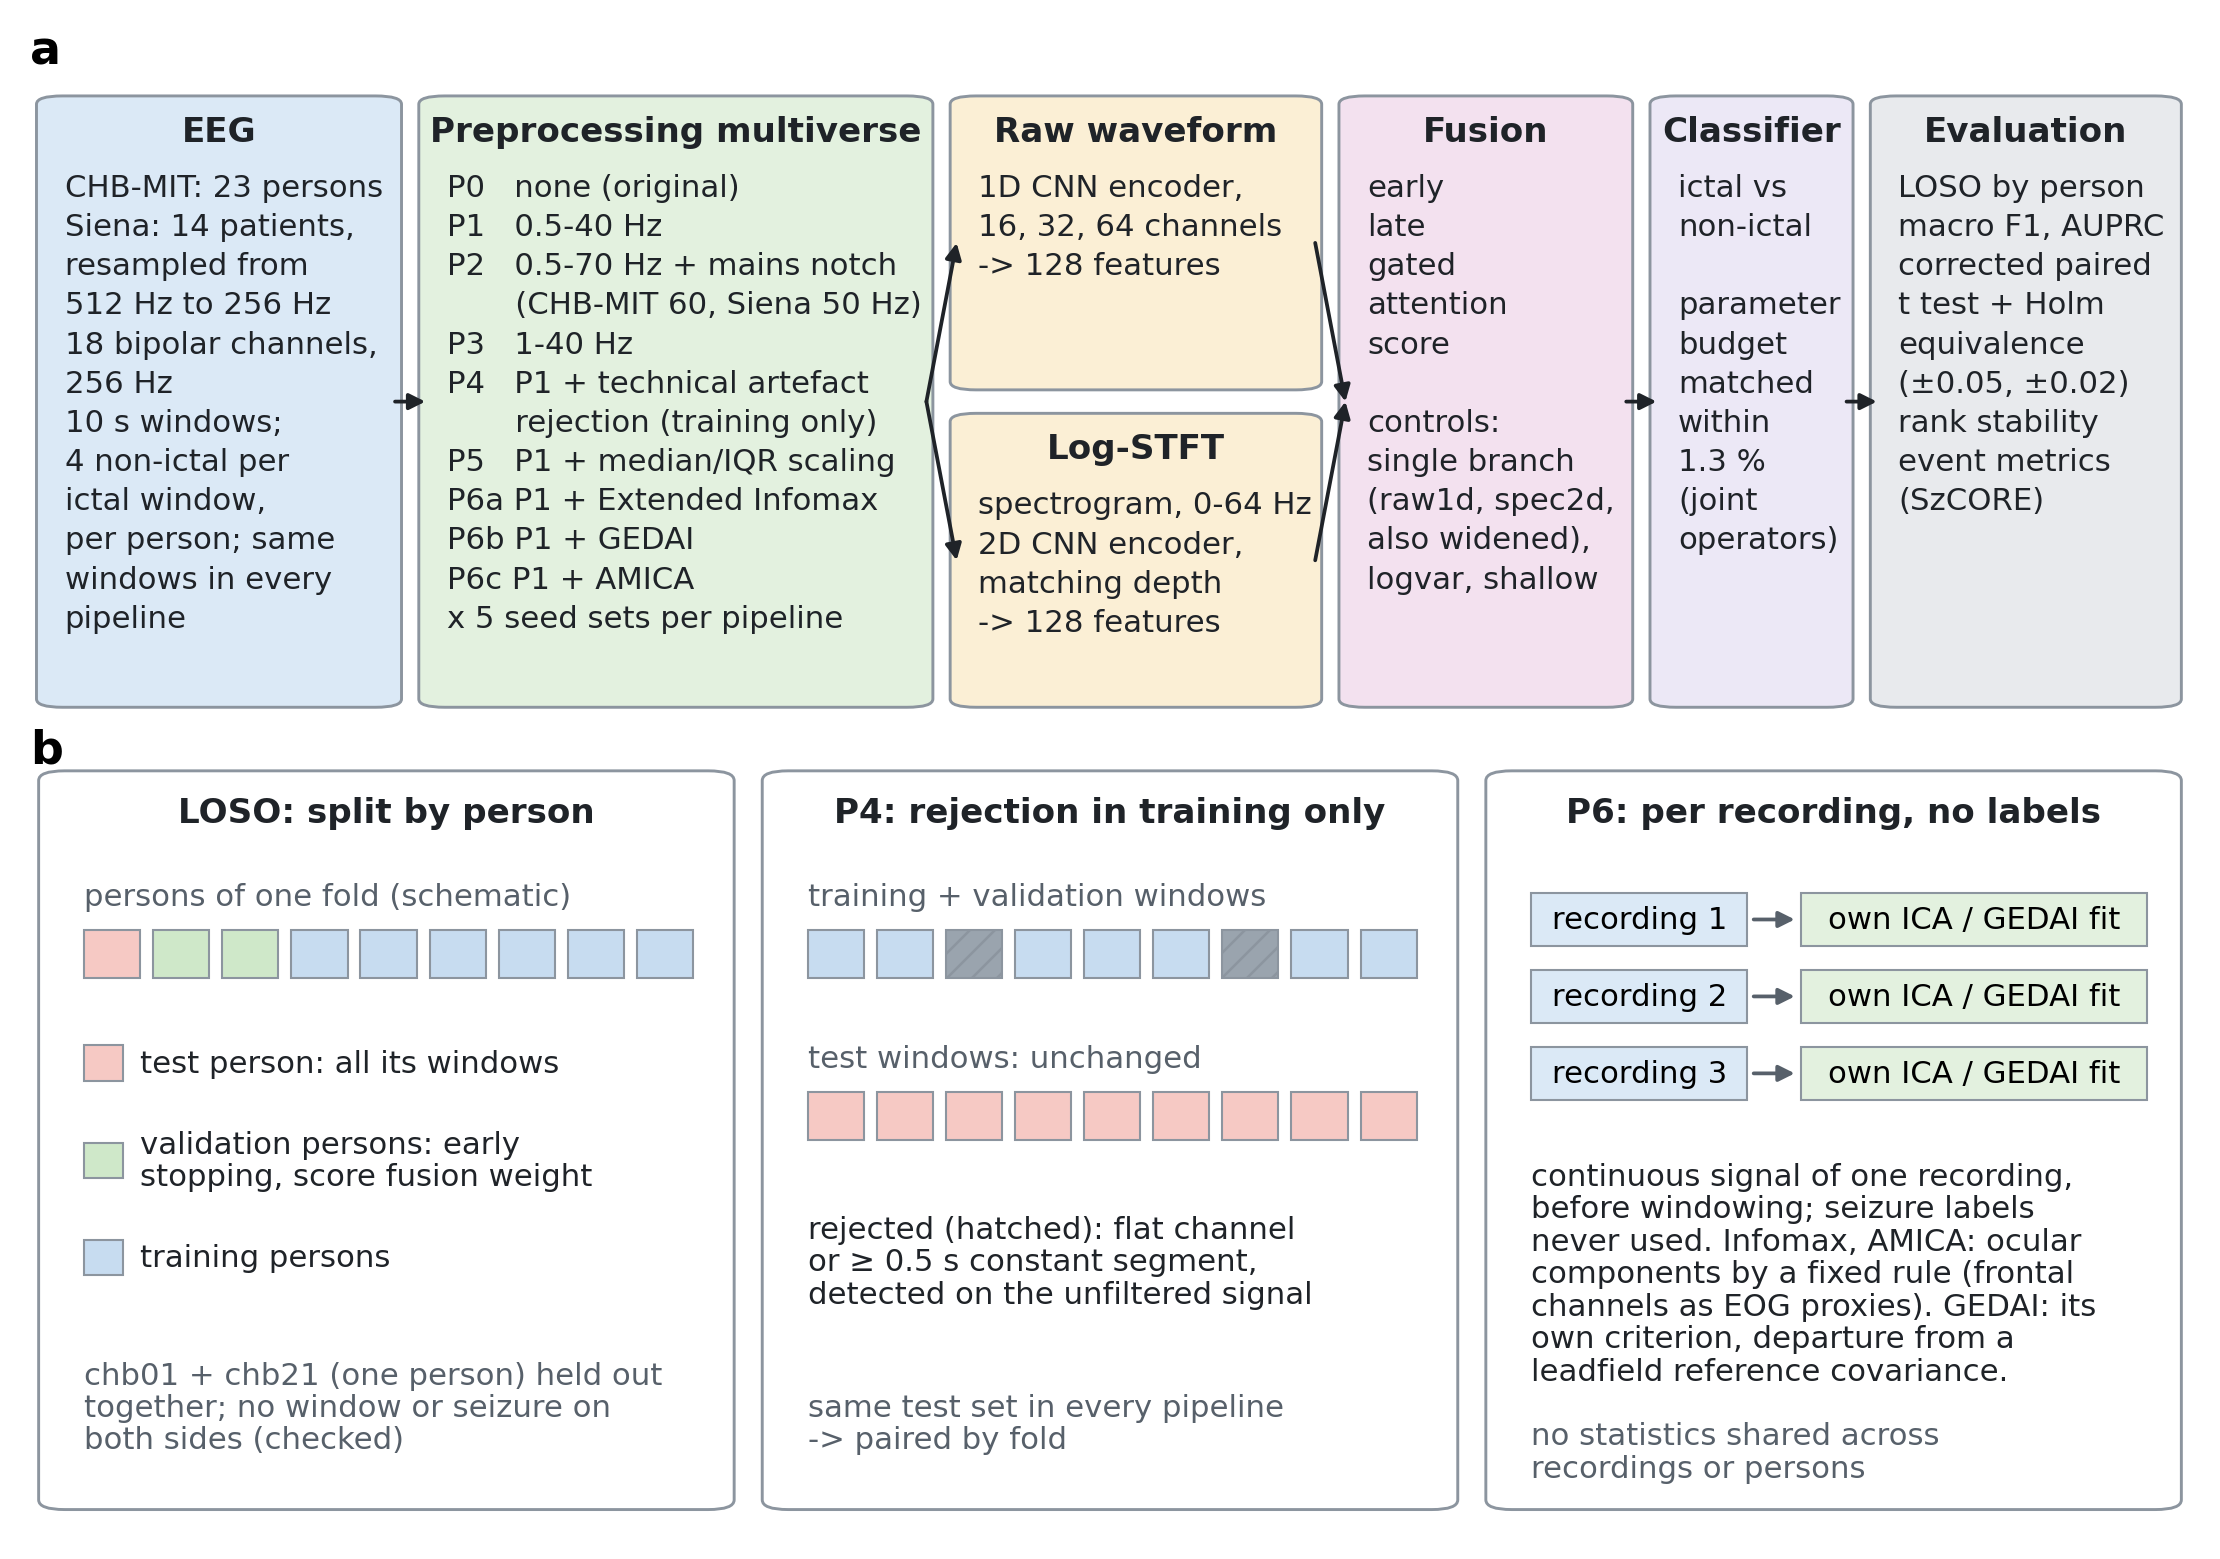
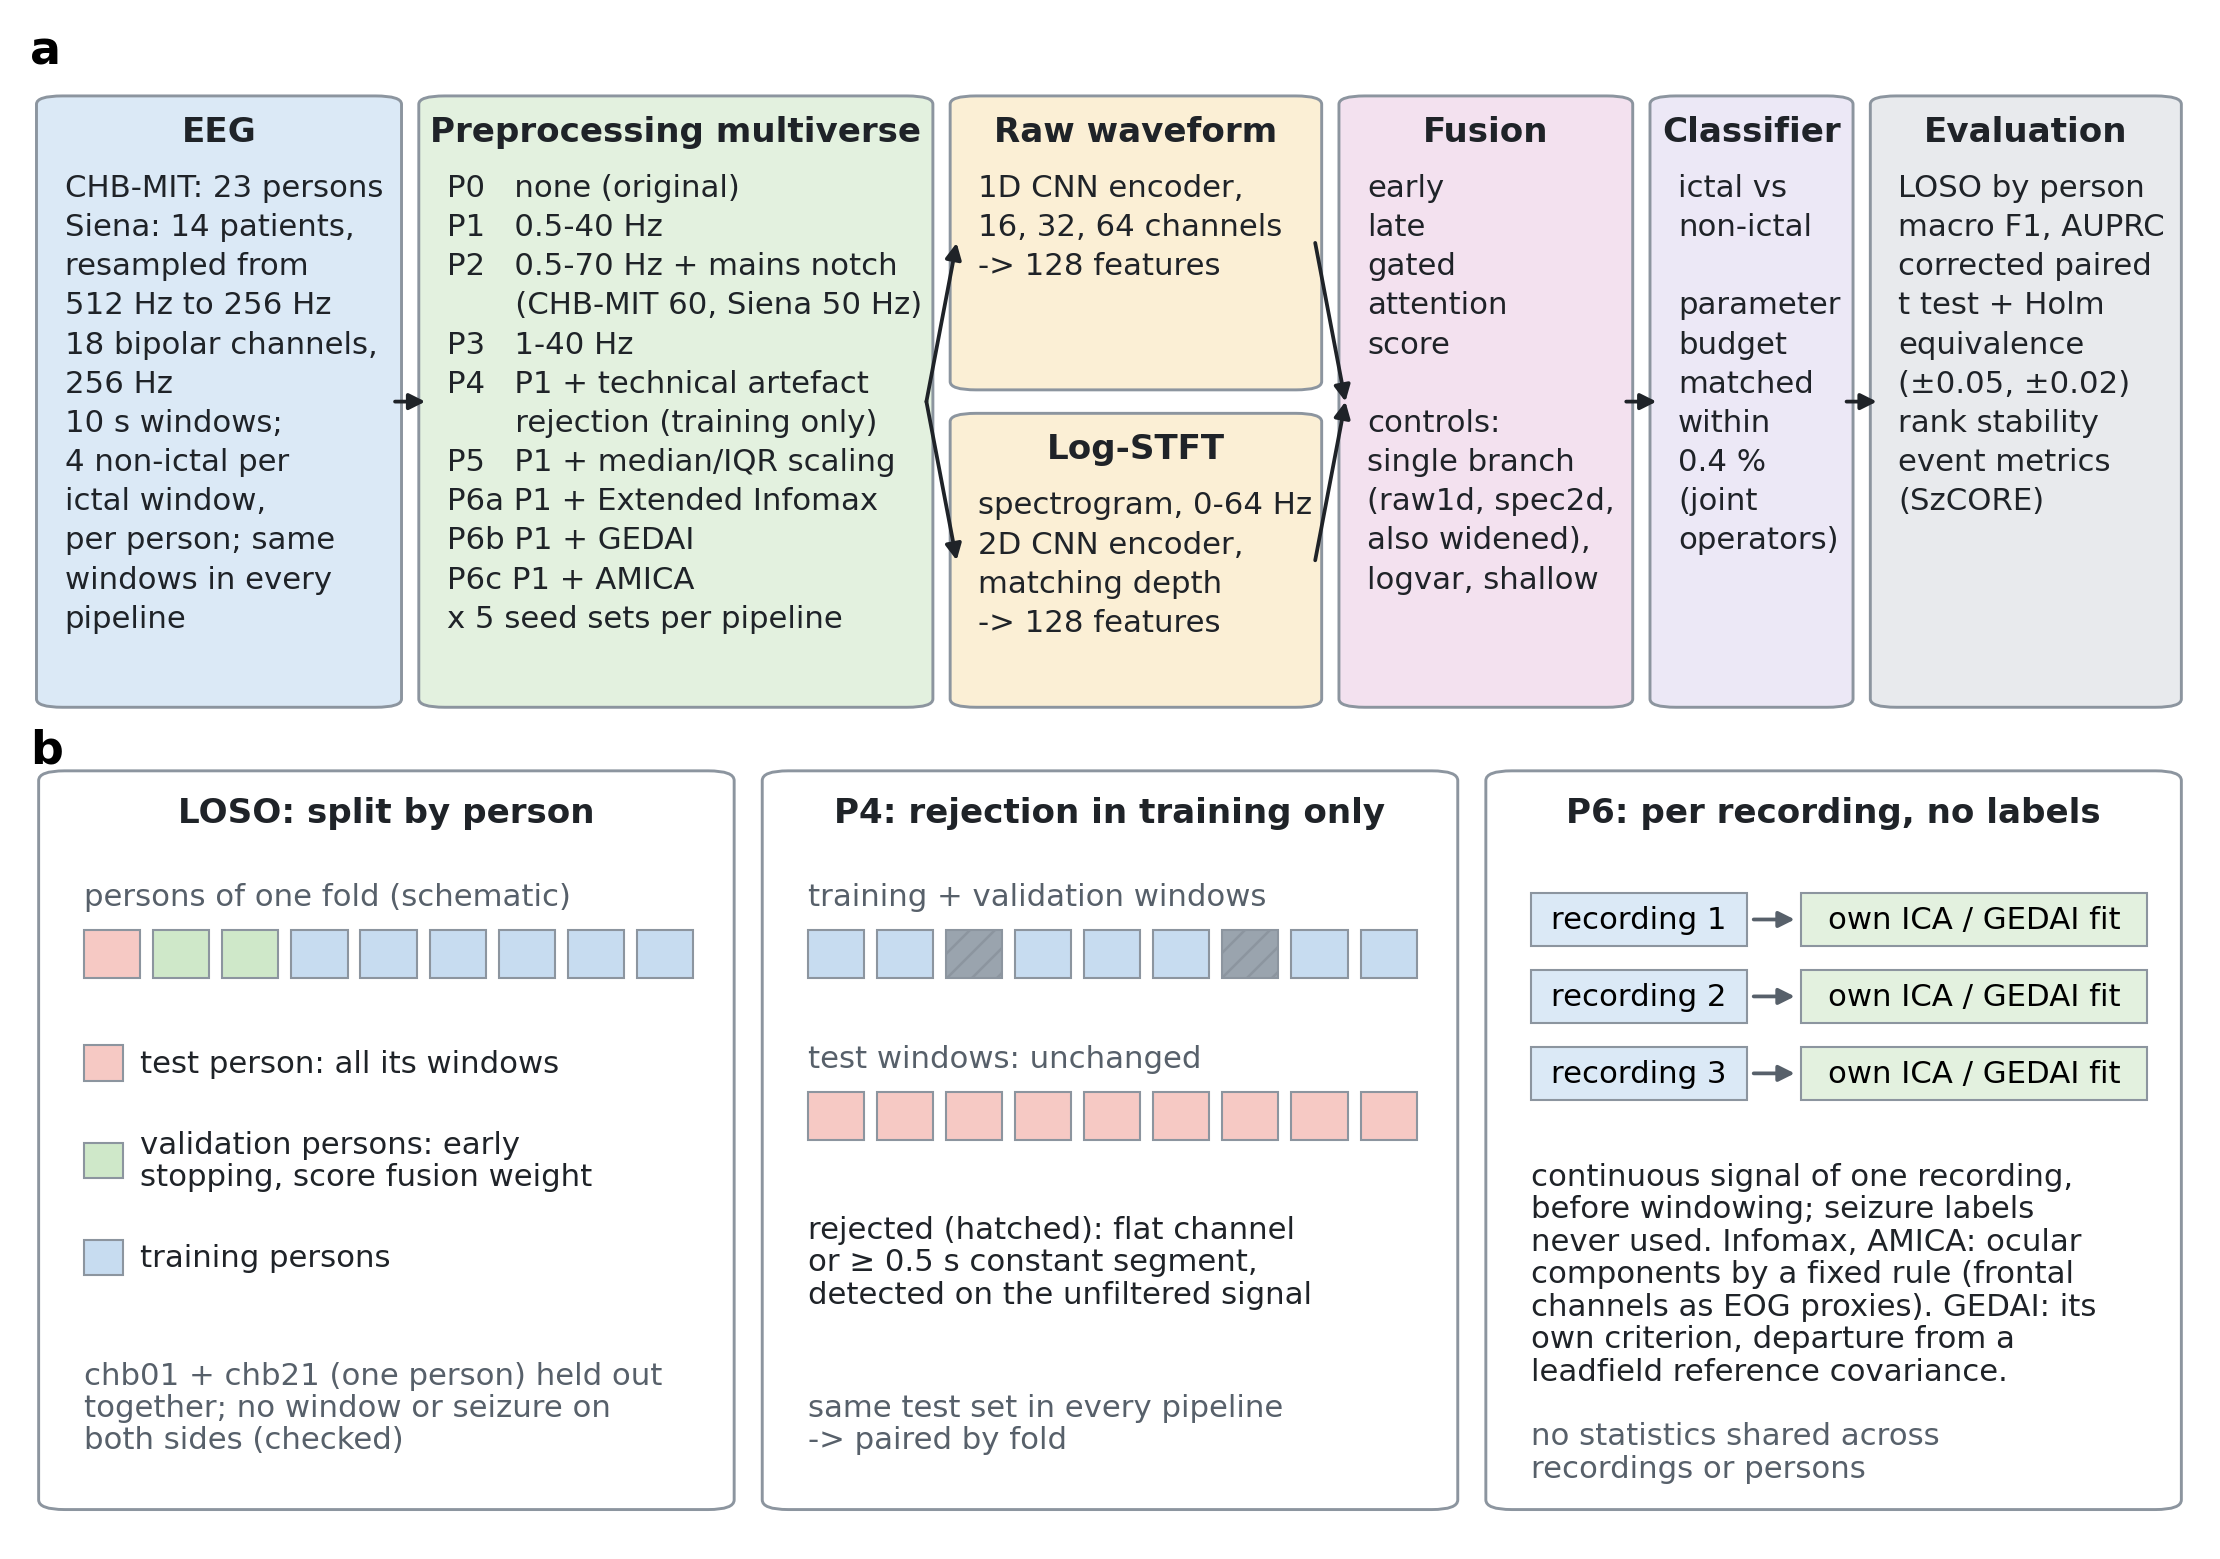
Parameter match stated as the code reports it: four joint operators within 0.4 percent
The '1.3 percent' in Section 1.5 and Figure 1 matched no output of src.models
(joint operators 102,547-102,921 on CHB-MIT, 0.36 percent; 1.2 percent on Bonn).

diff --git a/src/make_figure1.py b/src/make_figure1.py
@@ -86,7 +86,7 @@ def panel_a(ax):
         ["early", "late", "gated", "attention", "score", "", "controls:", "single branch",
          "(raw1d, spec2d,", "also widened),", "logvar, shallow"])
     box(ax, xs["clf"][0], y, xs["clf"][1], h, C["clf"], "Classifier",
-        ["ictal vs", "non-ictal", "", "parameter", "budget", "matched", "within", "1.3 %",
+        ["ictal vs", "non-ictal", "", "parameter", "budget", "matched", "within", "0.4 %",
          "(joint", "operators)"])
     box(ax, xs["eval"][0], y, xs["eval"][1], h, C["eval"], "Evaluation",
         ["LOSO by person", "macro F1, AUPRC", "corrected paired", "t test + Holm",

diff --git a/paper/manuscript_v2.md b/paper/manuscript_v2.md
@@ -166,7 +166,7 @@ test generalisation across patients (Kontras et al. 2026).
 Our contribution is not another fusion operator, nor only a comparison of existing
 ones: it is a test of how far conclusions drawn from such a comparison hold when the
 analytic decisions around it change. We hold the backbone, the training protocol and the
-parameter budget fixed (within 1.3 percent), vary only the fusion operator, and repeat
+parameter budget fixed (the four jointly trained operators within 0.4 percent), vary only the fusion operator, and repeat
 the whole comparison under nine preprocessing pipelines, including three artefact
 removal algorithms, and five seed sets, on two independent corpora and from one to the
 other. We ask three questions.
